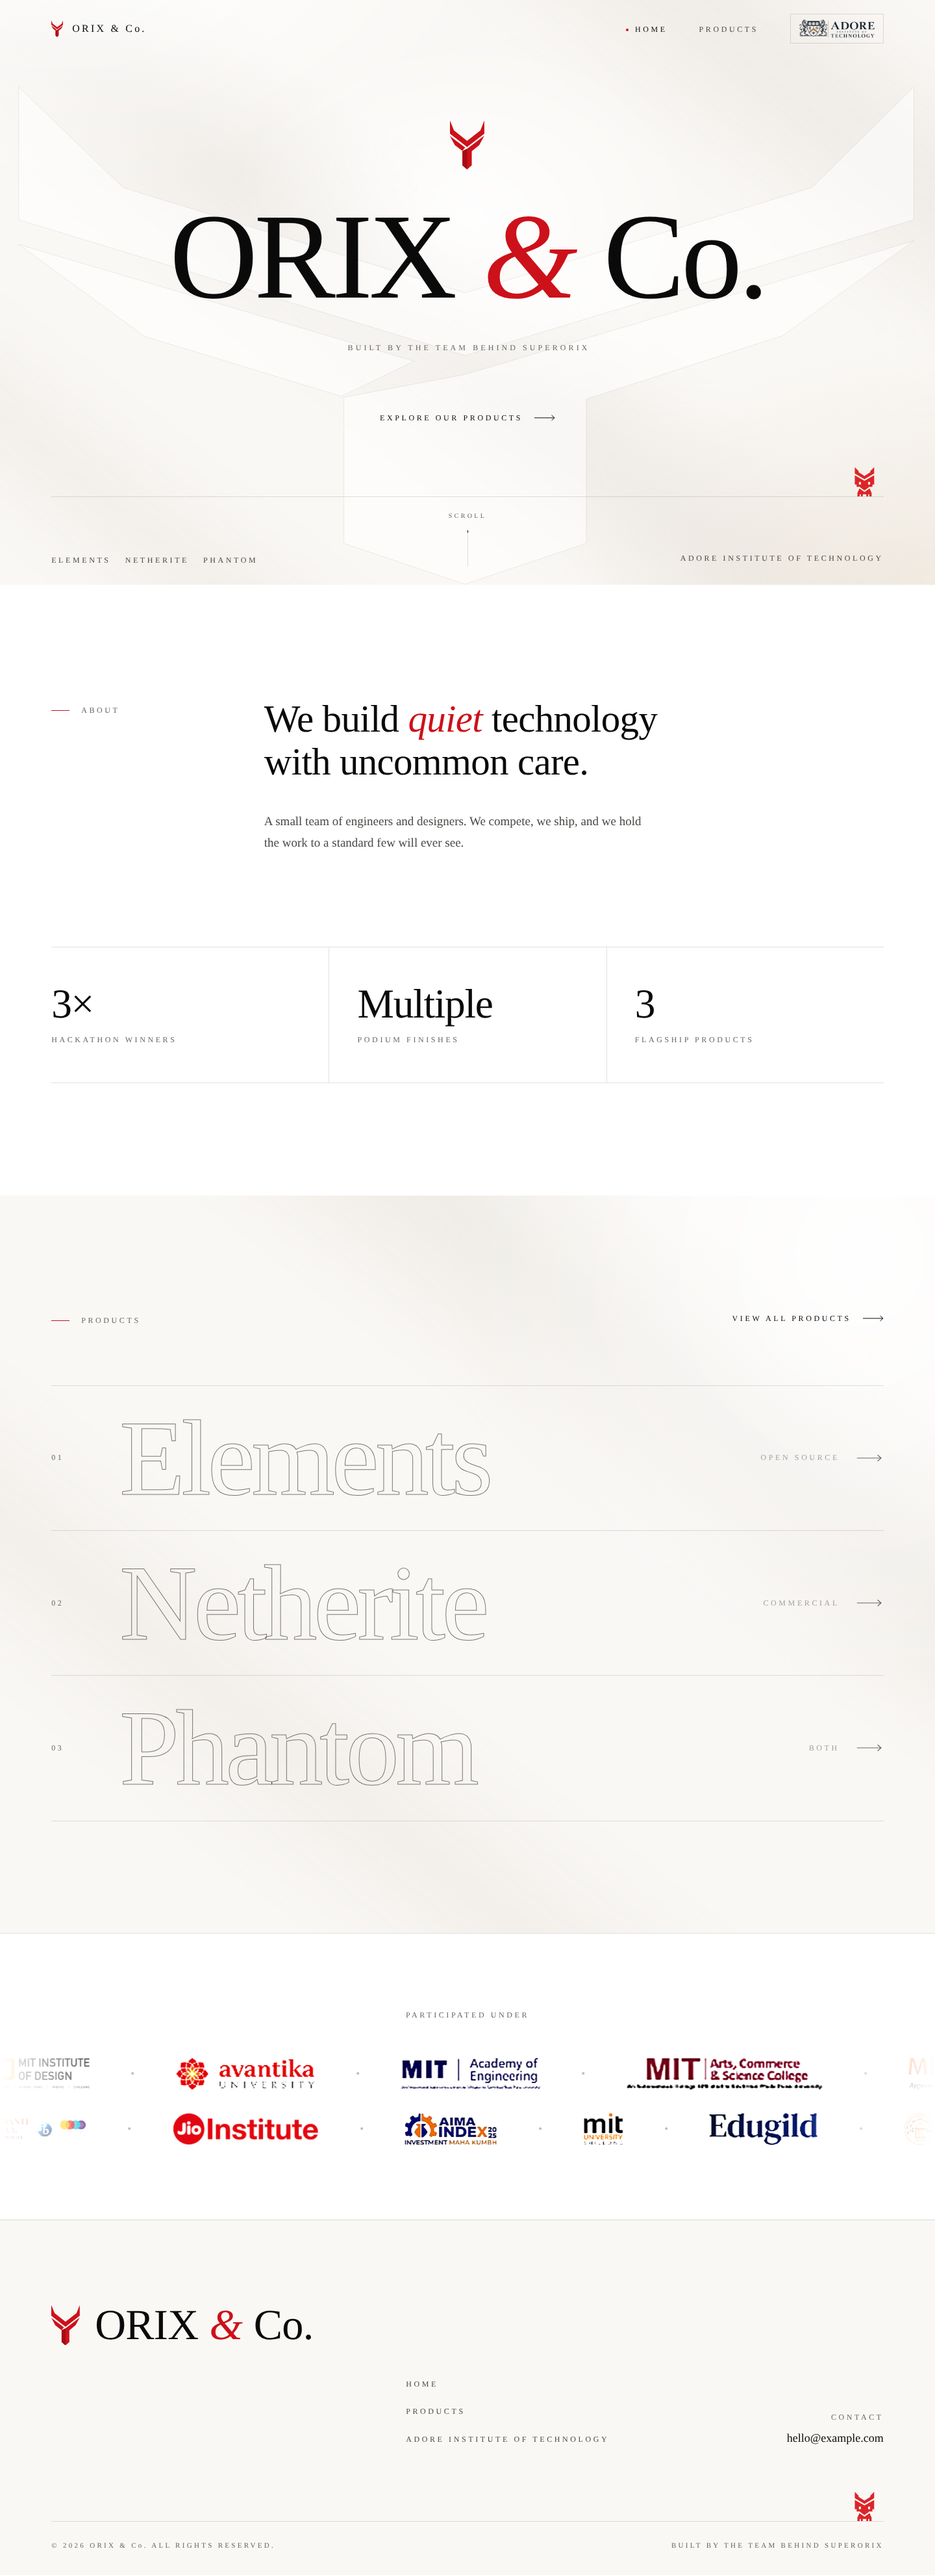
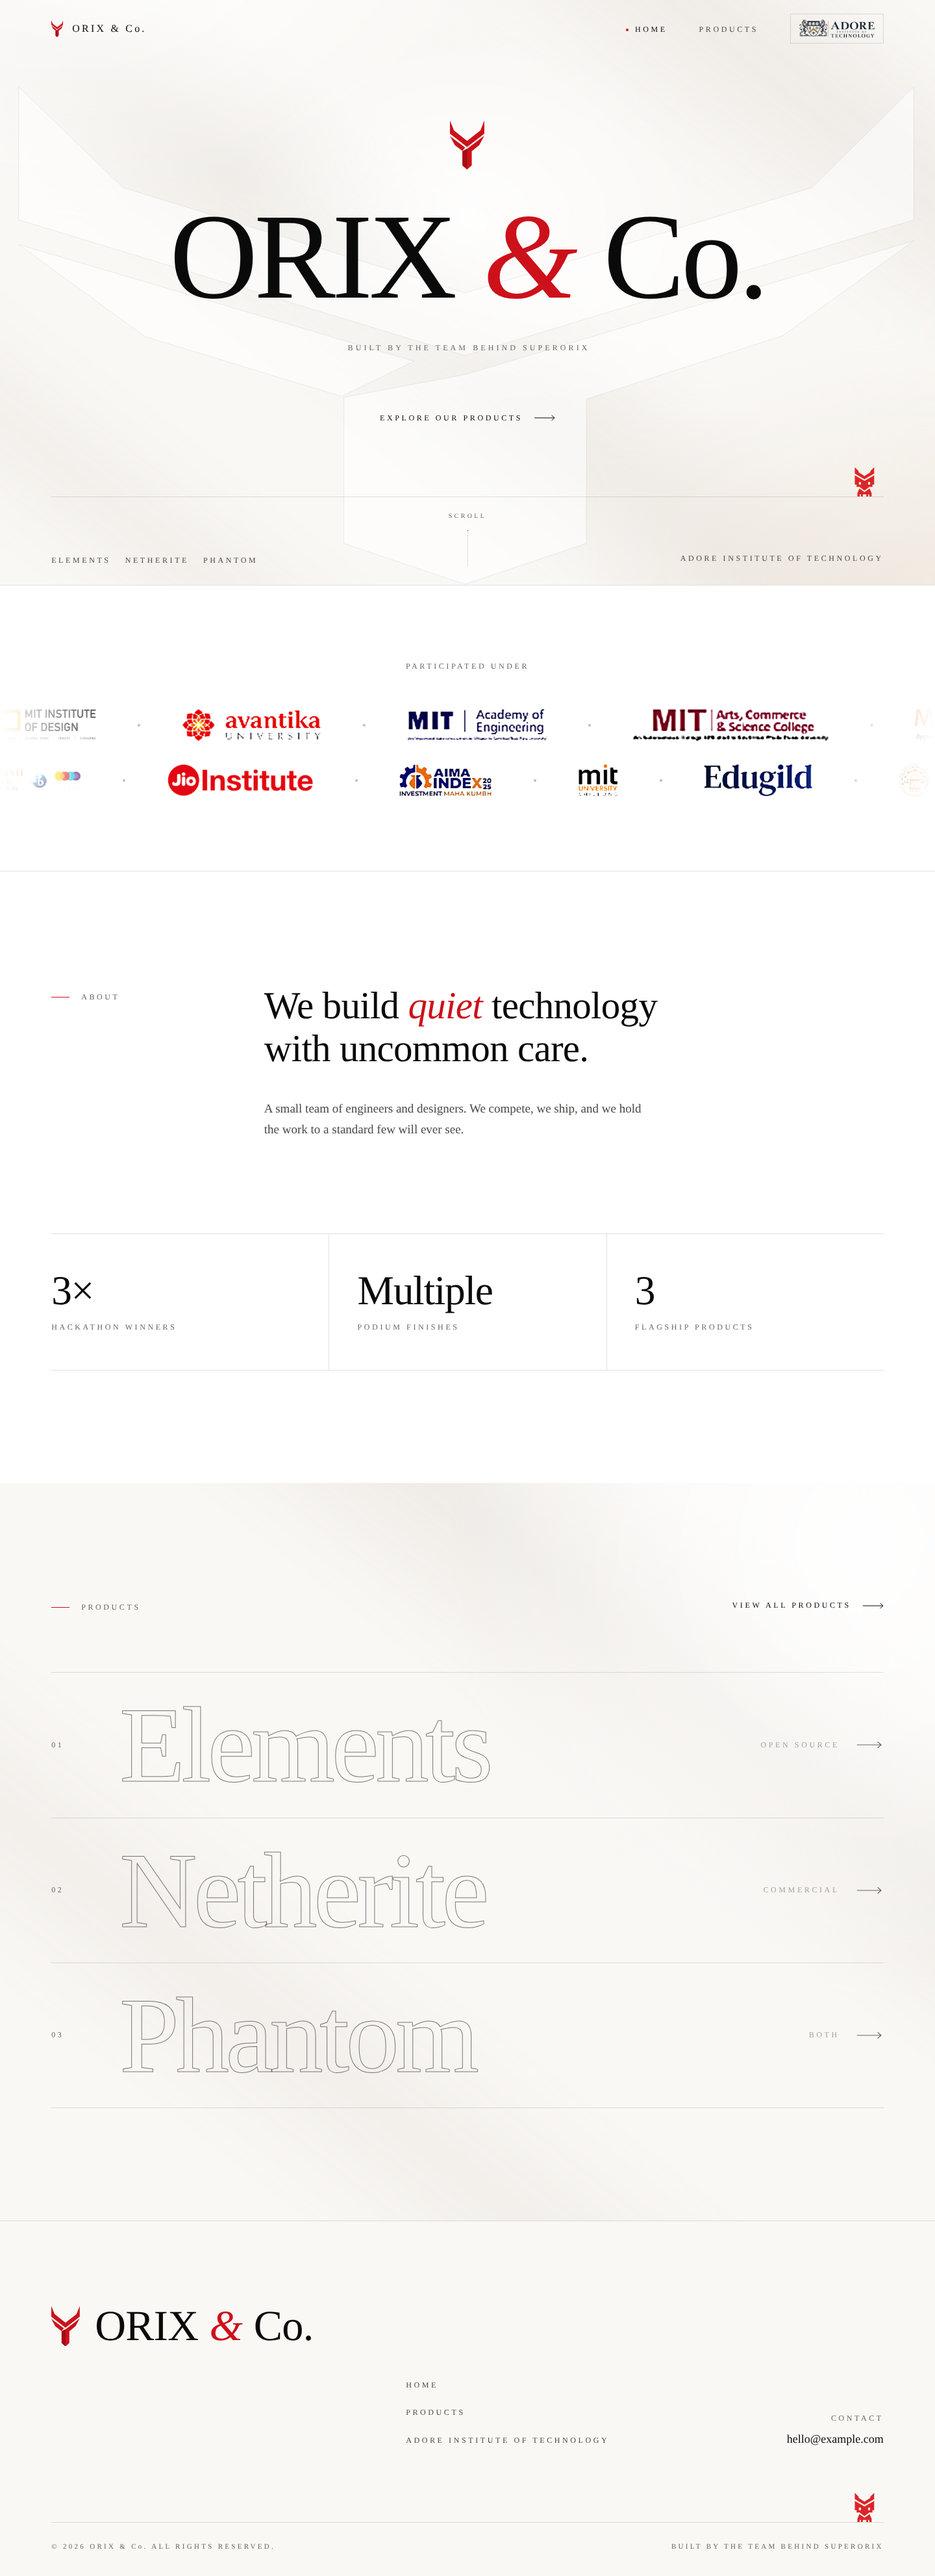
Home: partners strip above About, no hover pause; water-like reveal pool
- 'Participated under' strip now sits directly after the hero, before About
- Strip keeps scrolling while hovered
- Reveal head is a smooth, slowly rippling pool (Catmull-Rom outline from
  three low harmonics) that spreads in with a soft overshoot; the tail stays
  inside it at rest and tapers smoothly when moving

Claude-Session: https://claude.ai/code/session_01LLF2qoMhDfz1JwG89VCezi

diff --git a/script.js b/script.js
@@ -873,7 +873,32 @@ const CONFIG = {
     // and stopping pulls it back into one round shape.
     const N = 10;
     const nodes = Array.from({ length: N }, () => ({ x: 0, y: 0 }));
-    let cx = 0, cy = 0, inside = false, size = 0, placed = false, raf = 0, visible = true;
+    let cx = 0, cy = 0, inside = false, size = 0, sizeV = 0, placed = false, raf = 0, visible = true;
+    // the head is a pool of water: a smooth outline whose edge ripples gently and slowly
+    const RIPPLE = [
+      { k: 2, a: 0.055, w: 0.55 },
+      { k: 3, a: 0.04, w: -0.8 },
+      { k: 5, a: 0.018, w: 1.25 },
+    ];
+    const RIPPLE_MAX = RIPPLE.reduce((m, h) => m + h.a, 0);
+    const pool = (x, y, r, t) => {
+      const n = 36, p = [];
+      for (let i = 0; i < n; i++) {
+        const th = (i / n) * Math.PI * 2;
+        let f = 1;
+        RIPPLE.forEach((h) => (f += h.a * Math.sin(h.k * th + t * h.w + h.k)));
+        p.push([x + Math.cos(th) * r * f, y + Math.sin(th) * r * f]);
+      }
+      // closed Catmull-Rom curve through the points, written as cubic Béziers
+      let d = `M${p[0][0].toFixed(1)} ${p[0][1].toFixed(1)}`;
+      for (let i = 0; i < n; i++) {
+        const p0 = p[(i - 1 + n) % n], p1 = p[i], p2 = p[(i + 1) % n], p3 = p[(i + 2) % n];
+        const c1x = p1[0] + (p2[0] - p0[0]) / 6, c1y = p1[1] + (p2[1] - p0[1]) / 6;
+        const c2x = p2[0] - (p3[0] - p1[0]) / 6, c2y = p2[1] - (p3[1] - p1[1]) / 6;
+        d += `C${c1x.toFixed(1)} ${c1y.toFixed(1)} ${c2x.toFixed(1)} ${c2y.toFixed(1)} ${p2[0].toFixed(1)} ${p2[1].toFixed(1)}`;
+      }
+      return d + "Z";
+    };
     const baseR = () => Math.max(90, Math.min(160, hero.clientWidth * 0.1));
 
     hero.addEventListener("pointermove", (e) => {
@@ -910,9 +935,13 @@ const CONFIG = {
       return "M" + p.map((q) => q[0].toFixed(1) + " " + q[1].toFixed(1)).join("L") + "Z";
     };
 
-    const frame = () => {
+    const frame = (now) => {
       const R = baseR();
-      size += ((inside ? 1 : 0) - size) * (inside ? 0.09 : 0.07);
+      const t = now / 1000;
+      // spring for the size, so the pool spreads out with a soft overshoot like a landing drop
+      sizeV += ((inside ? 1 : 0) - size) * (inside ? 0.06 : 0.05);
+      sizeV *= 0.8;
+      size = Math.max(0, size + sizeV);
 
       // spring the rope
       nodes[0].x += (cx - nodes[0].x) * 0.32;
@@ -921,16 +950,19 @@ const CONFIG = {
         nodes[i].x += (nodes[i - 1].x - nodes[i].x) * 0.42;
         nodes[i].y += (nodes[i - 1].y - nodes[i].y) * 0.42;
       }
+      // the tail stays inside the pool's innermost edge, so at rest only the pool's outline shows
+      const inner = 1 - RIPPLE_MAX;
       const pts = nodes.map((n, i) => {
         const k = i / (N - 1);
-        return { x: n.x, y: n.y, r: R * size * (1 - 0.72 * k * k) };
+        return { x: n.x, y: n.y, r: R * size * inner * (1 - 0.82 * Math.pow(k, 1.15)) };
       });
 
       let d = "";
-      for (let i = 0; i < pts.length; i++) {
+      if (pts[0].r >= 0.8) d += pool(pts[0].x, pts[0].y, R * size, t);
+      for (let i = 1; i < pts.length; i++) {
         if (pts[i].r < 0.8) continue;
         d += circle(pts[i].x, pts[i].y, pts[i].r);
-        if (i > 0 && pts[i - 1].r >= 0.8) d += bridge(pts[i - 1], pts[i]);
+        if (pts[i - 1].r >= 0.8) d += bridge(pts[i - 1], pts[i]);
       }
       ink.style.clipPath = d ? `path("${d}")` : "inset(50%)";
 
@@ -940,7 +972,7 @@ const CONFIG = {
       }
       const tail = nodes[N - 1];
       const moving = Math.abs(cx - tail.x) + Math.abs(cy - tail.y) > 0.3;
-      const busy = visible && (inside || size > 0.004 || moving);
+      const busy = visible && (inside || size > 0.004 || Math.abs(sizeV) > 0.001 || moving);
       raf = busy ? requestAnimationFrame(frame) : 0;
     };
     const kick = () => {

diff --git a/index.html b/index.html
@@ -88,6 +88,13 @@
       </div>
     </section>
 
+    <section class="band" aria-labelledby="partners-title">
+      <div class="band__label">
+        <h2 class="eyebrow" id="partners-title" data-c="home.partners.label">Participated under</h2>
+      </div>
+      <div class="marquees" data-marquees></div>
+    </section>
+
     <section class="section" aria-labelledby="about-title">
       <div class="container">
         <div class="grid split">
@@ -131,12 +138,6 @@
       </svg>
     </div>
 
-    <section class="band" aria-labelledby="partners-title">
-      <div class="band__label">
-        <h2 class="eyebrow" id="partners-title" data-c="home.partners.label">Participated under</h2>
-      </div>
-      <div class="marquees" data-marquees></div>
-    </section>
   </main>
 
   <footer class="site-footer">

diff --git a/style.css b/style.css
@@ -653,6 +653,7 @@ svg { display: block; }
   background: var(--white);
   color: var(--ink);
   border-top: 1px solid var(--hair);
+  border-bottom: 1px solid var(--hair);
   overflow: hidden;
 }
 .band__label {
@@ -674,8 +675,6 @@ svg { display: block; }
 .marquee.is-running .marquee__track {
   animation: marquee var(--marquee-duration, 60s) linear infinite;
 }
-.marquee:hover .marquee__track,
-.marquee:focus-within .marquee__track { animation-play-state: paused; }
 
 .marquees { display: grid; gap: clamp(20px, 2.6vw, 36px); }
 .marquee--reverse.is-running .marquee__track { animation-direction: reverse; }
